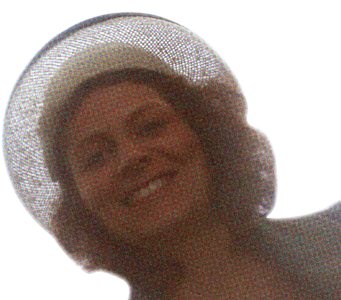
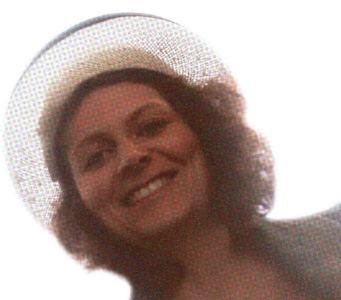
changed annie's photo; - old annie & kat photos

diff --git a/css/compiled.css b/css/compiled.css
@@ -1,1 +1,1 @@
[2 lines of base64/hex data omitted]

diff --git a/css/inc/_working.scss b/css/inc/_working.scss
@@ -139,7 +139,7 @@ body {background: url('../img/bg/deepwoodtile.jpg') repeat top left;}
 
 .e2 {
 	height: $base * 15;
-	background: url('../img/e2-kat2.jpg') no-repeat center left;
+	background: url('../img/e2-kat.jpg') no-repeat center left;
 	background-size: cover;
 	position: relative;
 	}
